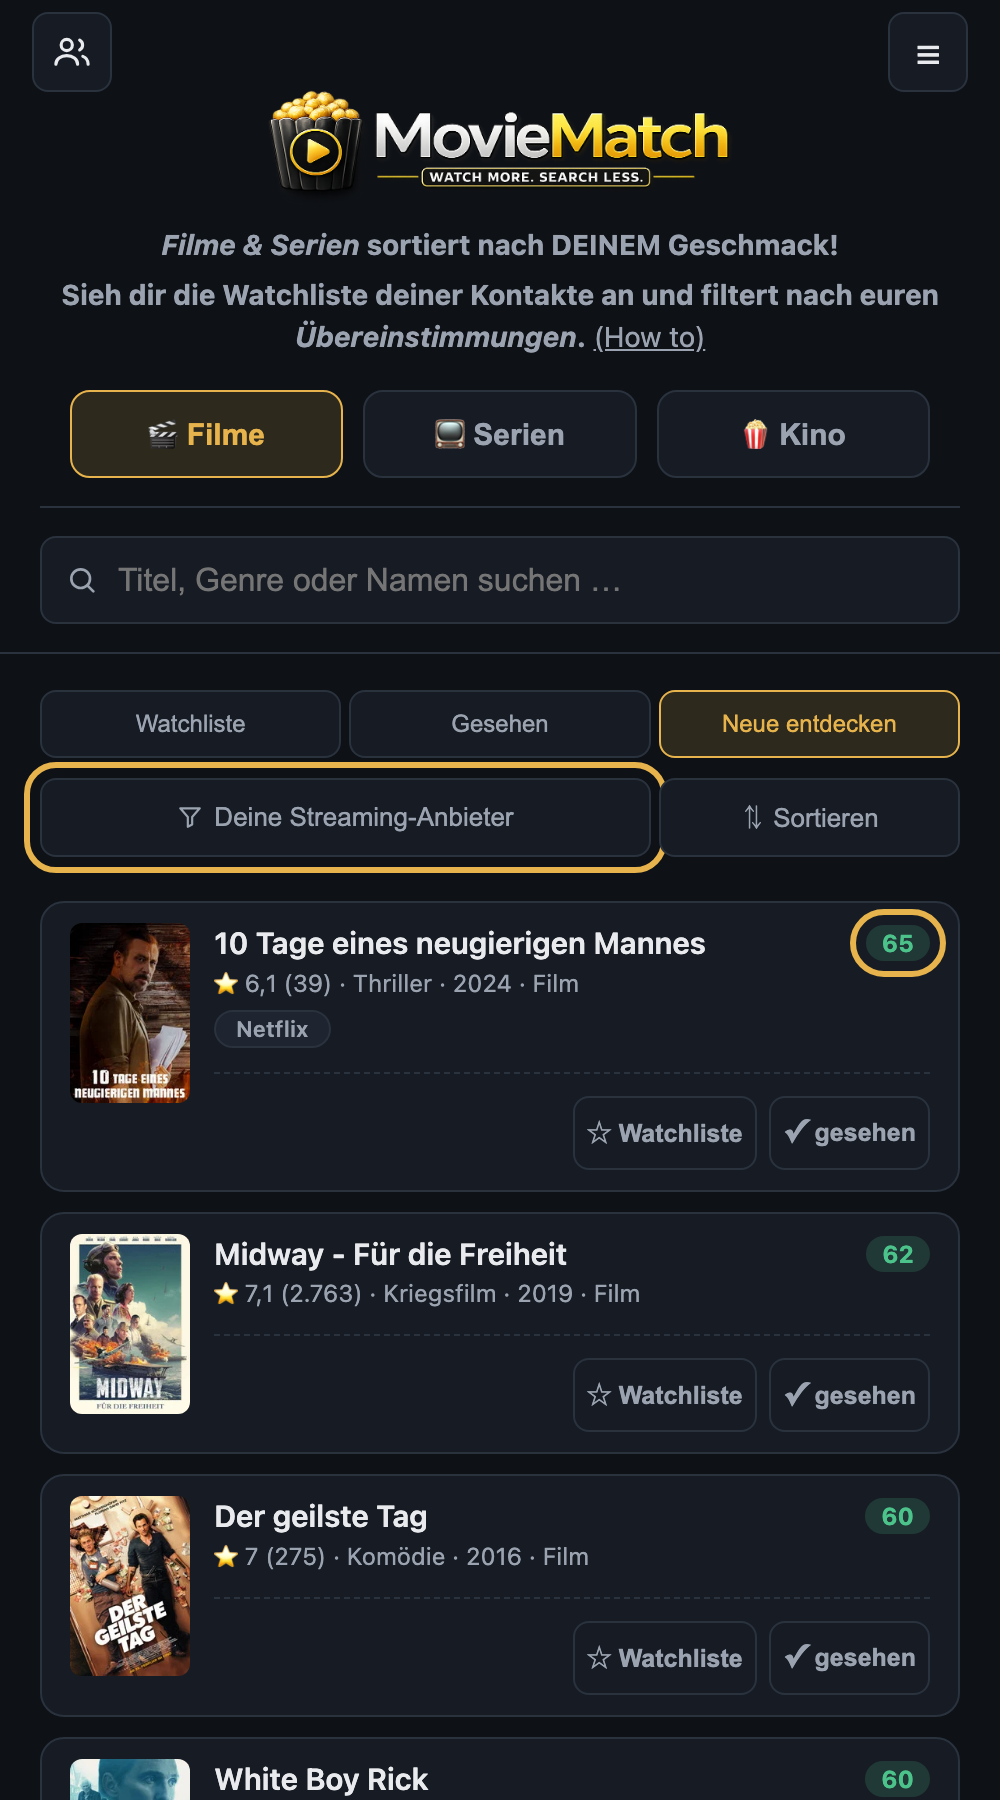
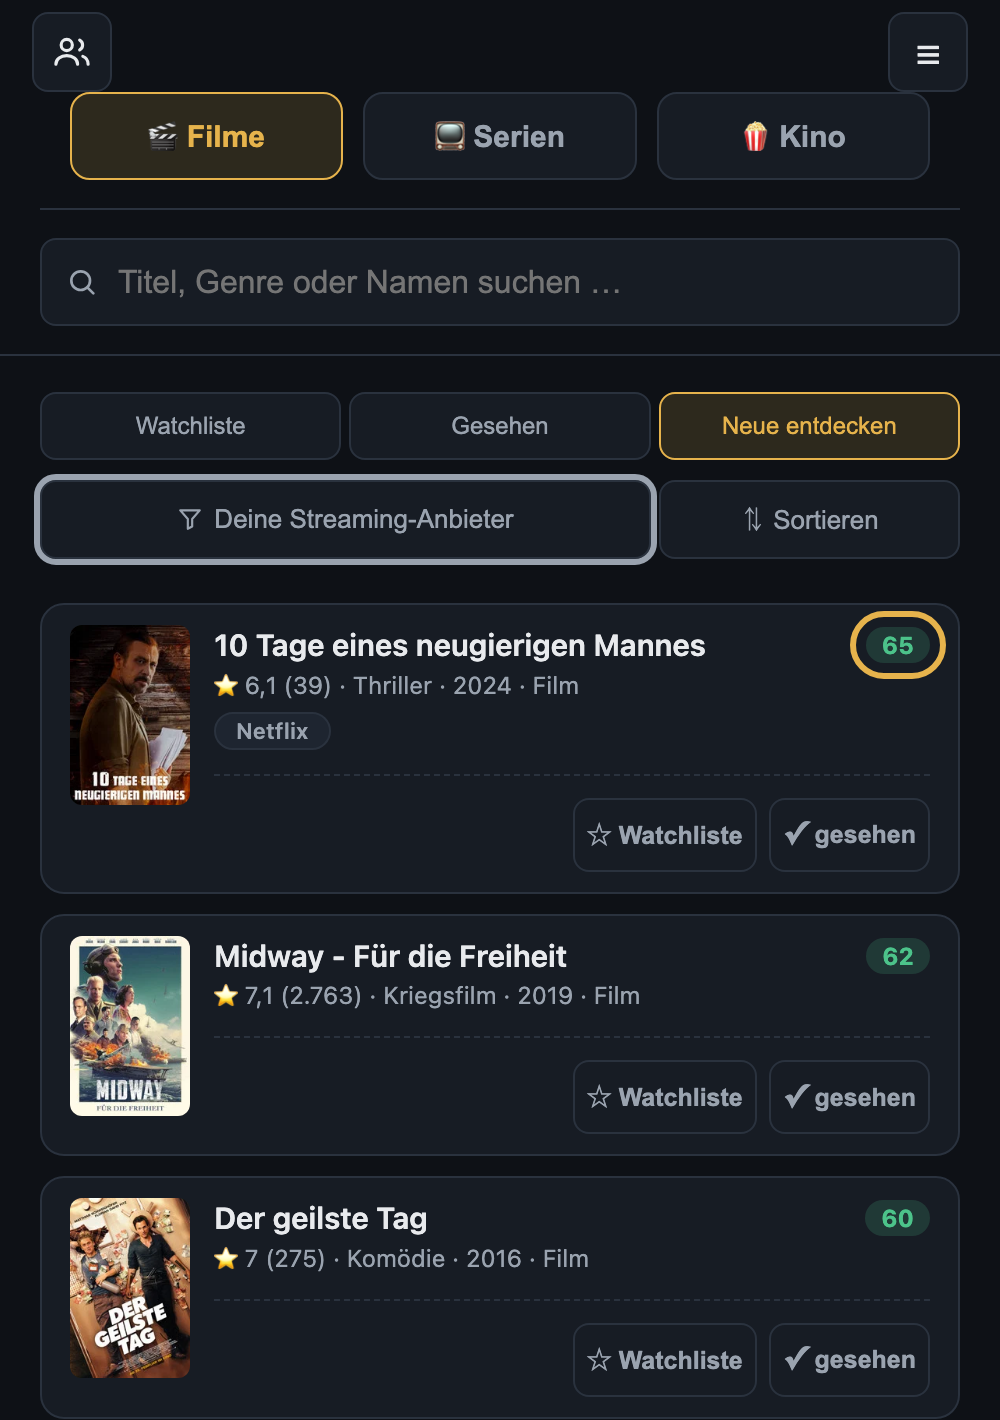
Einstieg: Bilder kuerzer, Fenster kann nicht mehr ueber den Rand wachsen
Die Screenshots reichten ueber den ganzen Bildschirm -- das Fenster wuchs mit,
und das ✕ oben war nicht mehr erreichbar. Zwei Aenderungen:

Die Bilder fangen jetzt bei den Knoepfen Filme/Serien/Kino an; Logo und die
beiden Kopfzeilen sind fuer die Aufnahme ausgeblendet (siehe kopfKuerzen in
scripts/tour/aufbau.js). Das spart rund 190px Hoehe, und der weggelassene
Bereich zeigt ohnehin nichts, was die Seiten erklaeren.

Unabhaengig davon ist das Fenster jetzt auf 88vh gedeckelt und scrollt notfalls,
das Bild auf 46vh. Damit kann kein Bild -- auch kein spaeter ausgetauschtes --
den Schliessen-Knopf mehr aus dem Bild schieben.

Geprueft auf 375x667 (kleines iPhone): alle sechs Seiten passen vollstaendig,
das ✕ liegt zwischen y=53 und y=86.

Ausserdem auf Seite 1 vorangestellt, was "Neue entdecken" ueberhaupt zeigt.

Changed region(s): [[0.031, 0.0, 0.961, 1.0], [0.899, 0.0, 0.961, 0.093], [0.0, 0.4338, 0.031, 0.4648]]

diff --git a/scripts/tour/aufbau.js b/scripts/tour/aufbau.js
@@ -69,6 +69,15 @@
   // Beim ersten Besuch oeffnet sich der Einstieg von selbst -- fuer die
   // Aufnahmen ist er im Weg (Chrome startet jedes Mal mit leerem Profil).
   function tourZu() { try { closeTour(); } catch (e) {} }
+  /* Logo und die beiden Kopfzeilen ausblenden: Fuer die Bilder faengt der
+     interessante Teil bei den Knoepfen Filme/Serien/Kino an. Ohne das waren die
+     Bilder so hoch, dass das Einstiegsfenster darum herum ueber den Bildschirm
+     hinauswuchs. */
+  function kopfKuerzen() {
+    var h1 = document.querySelector('header h1');
+    if (h1) h1.style.display = 'none';
+    document.querySelectorAll('header .sub').forEach(function (e) { e.style.display = 'none'; });
+  }
   function zeilen() { return document.querySelectorAll('#list li'); }
   function katalogDa() { return typeof POOL !== 'undefined' && POOL.length > 100; }
 
@@ -95,6 +104,7 @@
     1: function (fertig) {
       warte(katalogDa, function () {
         tourZu();
+        kopfKuerzen();
         profilVortaeuschen();
         activeTab = 'filme'; watchlistFilterOn = false; seenFilterOn = false; discoverFilterOn = true;
         einstiegOffen = false; updateFilterRowUI(); renderCurrentTab();
@@ -108,6 +118,7 @@
     2: function (fertig) {
       warte(katalogDa, function () {
         tourZu();
+        kopfKuerzen();
         profilVortaeuschen();
         activeTab = 'filme'; watchlistFilterOn = false; seenFilterOn = false; discoverFilterOn = true;
         einstiegOffen = false; updateFilterRowUI(); renderCurrentTab();
@@ -124,6 +135,7 @@
     3: function (fertig) {
       warte(katalogDa, function () {
         tourZu();
+        kopfKuerzen();
         profilVortaeuschen();
         CURRENT_USER = { id: 1, displayName: 'Du' };
         LINKED_LADEN = false;
@@ -153,6 +165,7 @@
     4: function (fertig) {
       warte(katalogDa, function () {
         tourZu();
+        kopfKuerzen();
         profilVortaeuschen();
         activeTab = 'filme'; watchlistFilterOn = false; seenFilterOn = false; discoverFilterOn = true;
         einstiegOffen = false; updateFilterRowUI(); renderCurrentTab();
@@ -169,6 +182,7 @@
     5: function (fertig) {
       warte(katalogDa, function () {
         tourZu();
+        kopfKuerzen();
         profilVortaeuschen();
         activeTab = 'filme'; watchlistFilterOn = false; seenFilterOn = false; discoverFilterOn = true;
         einstiegOffen = false; updateFilterRowUI(); renderCurrentTab();
@@ -192,6 +206,7 @@
     6: function (fertig) {
       warte(katalogDa, function () {
         tourZu();
+        kopfKuerzen();
         profilVortaeuschen();
         activeTab = 'filme'; einstiegOffen = false;
         searchEl.value = 'Action';

diff --git a/index.html b/index.html
@@ -611,9 +611,15 @@
   /* Einstieg in Schritten (siehe TOUR_SLIDES). Feste Mindesthoehe fuer den
      Bildbereich waere falsch -- die Bilder sind unterschiedlich hoch, und ein
      leerer Kasten auf Seiten ohne Bild saehe nach Fehler aus. */
-  .modal-overlay .modal.tour-modal { max-width:420px; }
+  /* Hoehe gedeckelt und notfalls scrollbar: Ohne das wuchs das Fenster mit dem
+     Bild ueber den Bildschirm hinaus -- dann war das ✕ oben nicht mehr
+     erreichbar und man kam aus dem Einstieg nicht heraus. */
+  .modal-overlay .modal.tour-modal { max-width:420px; max-height:88vh; overflow-y:auto; }
   .tour-bild { margin:14px 0; }
-  .tour-bild img { display:block; width:100%; height:auto; border-radius:10px;
+  /* max-height statt fester Breite: Das Bild schrumpft bei Bedarf als Ganzes,
+     statt in die Hoehe gezogen zu werden. */
+  .tour-bild img { display:block; margin:0 auto; max-width:100%; max-height:46vh;
+    width:auto; height:auto; border-radius:10px;
     border:1px solid var(--border); background:var(--bg); }
   .tour-text { color:var(--text); font-size:14px; line-height:1.6; margin:0; }
   .tour-punkte { display:flex; gap:6px; justify-content:center; margin:16px 0 14px; }
@@ -4202,7 +4208,8 @@ document.addEventListener('keydown', function(e){
 var TOUR_SLIDES = [
   { titel: 'Filme & Serien entdecken',
     bild: 'tour/1-entdecken.png',
-    text: 'Markiere Titel als gesehen, bewerte sie oder füge sie deiner Watchliste hinzu.' },
+    text: '„Neue entdecken" listet alle Filme und Serien auf bzw. zeigt aktuelle und zukünftige Kinofilme. ' +
+      'Markiere Titel als gesehen, bewerte sie oder füge sie deiner Watchliste hinzu.' },
   { titel: 'Dein Taste-Score',
     bild: 'tour/2-taste-score.png',
     text: 'Ab 10 gespeicherten Titeln werden alle Filme, Serien und Kinofilme nach deinem Geschmack sortiert.' },
